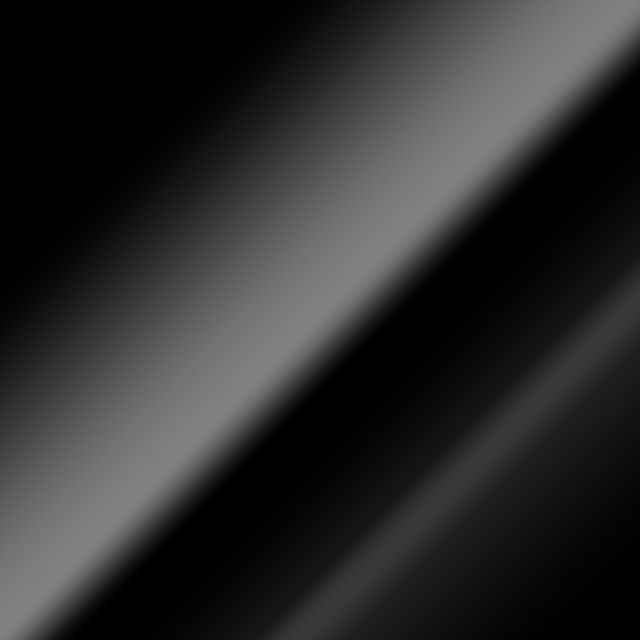
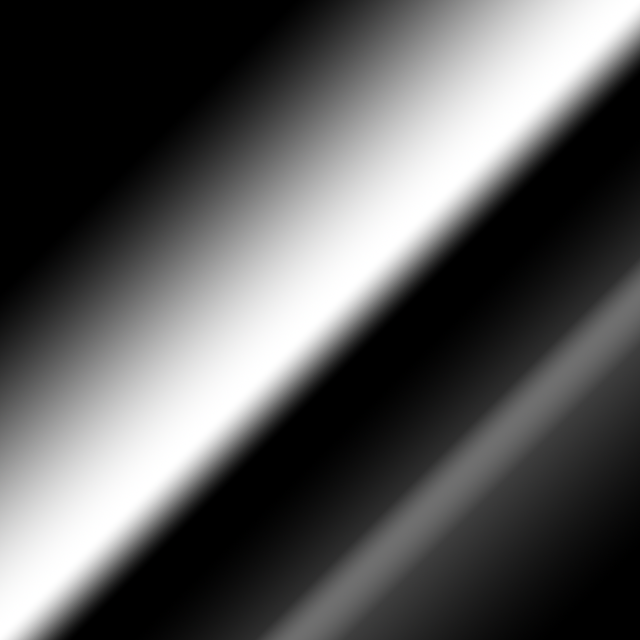
Added camera movement with presets for position with each possible number of cards showing.
Added colored spotlight to scene floor.

Added falloff to floor reflection.

diff --git a/SceneKitTest/Classes/AESceneView.m b/SceneKitTest/Classes/AESceneView.m
@@ -36,7 +36,13 @@
 	[self initTeamsFromCSVFileWithBaseFilenames:@[@"ffl_2009_teams", @"ffl_2009_teams_supplemental"]];
 
 	_playerIDPool = @[@"nfl.p.2914", @"nfl.p.3116", @"nfl.p.3664", @"nfl.p.4262", @"nfl.p.4659", @"nfl.p.5036", @"nfl.p.5228", @"nfl.p.5474", @"nfl.p.5652", @"nfl.p.5900", @"nfl.p.6353", @"nfl.p.6427", @"nfl.p.6492", @"nfl.p.6802", @"nfl.p.6994", @"nfl.p.7073", @"nfl.p.7200", @"nfl.p.7203", @"nfl.p.7241", @"nfl.p.7247", @"nfl.p.7406", @"nfl.p.7434", @"nfl.p.7809", @"nfl.p.7860", @"nfl.p.7868", @"nfl.p.7904", @"nfl.p.8255", @"nfl.p.8261", @"nfl.p.8263", @"nfl.p.8286", @"nfl.p.8298", @"nfl.p.8306", @"nfl.p.8327", @"nfl.p.8330", @"nfl.p.8346", @"nfl.p.8391", @"nfl.p.8416", @"nfl.p.8432", @"nfl.p.8815", @"nfl.p.8821", @"nfl.p.8850", @"nfl.p.8872", @"nfl.p.8902", @"nfl.p.8926", @"nfl.p.9030", @"nfl.p.9037", @"nfl.p.9039", @"nfl.p.9265", @"nfl.p.9271", @"nfl.p.9274", @"nfl.p.9293", @"nfl.p.9295", @"nfl.p.9314", @"nfl.p.9496", @"nfl.p.9497"];
-//	NSInteger randomPlayerIndex =  AERandInt(0, _playerIDPool.count - 1);
+
+	_cameraPositions = @{@"0" : [NSValue valueWithSCNVector3:SCNVector3Make(0.0, 1.2, 20.0)], // 0 cards
+						 @"2" : [NSValue valueWithSCNVector3:SCNVector3Make(0.0, 2.7, 12.0)], // 2 cards
+						 @"3" : [NSValue valueWithSCNVector3:SCNVector3Make(0.0, 2.25, 14.0)], // 3 cards
+						 @"4" : [NSValue valueWithSCNVector3:SCNVector3Make(0.0, 1.7, 16.0)], // 4 cards
+						 @"5" : [NSValue valueWithSCNVector3:SCNVector3Make(0.0, 1.2, 18.0)], // 5 cards
+						 };
 
 //	for (NSString *s in _playerIDPool) {
 //		NSString *headshotFilePath = [[[NSBundle mainBundle] URLForResource:[NSString stringWithFormat:@"PC Headshots/%@", s] withExtension:@"png"] path];
@@ -57,6 +63,8 @@
 //	scene.view.backgroundColor = [NSColor blackColor];
 
 	SCNNode *root = scene.rootNode;
+	self.jitteringEnabled = YES;
+	self.backgroundColor = [NSColor blackColor];
 //	self.allowsCameraControl = YES;
 //	self.showsStatistics = YES;
 
@@ -64,10 +72,11 @@
 	SCNCamera *camera = [SCNCamera camera];
 	camera.xFov = 45;   // Degrees, not radians
 	camera.yFov = 45;
-	SCNNode *cameraNode = [SCNNode node];
-	cameraNode.camera = camera;
-	cameraNode.position = SCNVector3Make(0, .5, 18);
-	[scene.rootNode addChildNode:cameraNode];
+	_cameraNode = [SCNNode node];
+	_cameraNode.camera = camera;
+//	_cameraNode.position = SCNVector3Make(0, 1.0, 18);
+	_cameraNode.position = [_cameraPositions[[@(0) stringValue]] SCNVector3Value];
+	[scene.rootNode addChildNode:_cameraNode];
 
 	// main light
 	SCNLight *light = [SCNLight light];
@@ -78,9 +87,28 @@
 //	[root addChildNode:lightNode];
     root.light = light;
 
+	SCNNode *spotNode = [SCNNode node];
+    spotNode.name = @"spot light";
+    spotNode.position = SCNVector3Make(0, 30, 2);
+    spotNode.rotation = SCNVector4Make(1, 0, 0, -M_PI_2);
+	spotNode.light = [SCNLight light];
+	spotNode.light.color = [NSColor colorWithCalibratedHue:.60 saturation:100.0 brightness:0.30 alpha:1.0];
+	spotNode.light.type = SCNLightTypeSpot;
+    spotNode.light.shadowRadius = 10;
+    [spotNode.light setAttribute:@30 forKey:SCNLightShadowNearClippingKey];
+    [spotNode.light setAttribute:@50 forKey:SCNLightShadowFarClippingKey];
+    [spotNode.light setAttribute:@8 forKey:SCNLightSpotInnerAngleKey];
+    [spotNode.light setAttribute:@40 forKey:SCNLightSpotOuterAngleKey];
+	[root addChildNode:spotNode];
+
 	// floor geometry
 	SCNFloor *floor = [SCNFloor floor];
-	floor.reflectivity = 0.20;
+	SCNMaterial *floorMaterial = [SCNMaterial material];
+	floorMaterial.ambient.contents = [NSColor darkGrayColor];
+	floor.reflectivity = 0.30;
+	floor.reflectionFalloffStart = 1.0;
+	floor.reflectionFalloffEnd = 5.5;
+	floor.firstMaterial = floorMaterial;
 	SCNNode *floorNode = [SCNNode nodeWithGeometry:floor];
 	[root addChildNode:floorNode];
 
@@ -105,12 +133,6 @@
 //	[AEUtility configureMaterial:infoMat];
 //	[root addChildNode:infoNode];
 
-//	SCNNode *playerCardNode = [SCNNode node];
-//	SCNSceneSource *playerCardSource = [SCNSceneSource sceneSourceWithURL:url options:nil];
-//	SCNGeometry *playerCardGeometry = [playerCardSource entryWithIdentifier:@"player_card_test" withClass:[SCNGeometry class]];
-//	playerCardNode.geometry = playerCardGeometry;
-//	[root addChildNode:playerCardNode];
-
 //	SCNText *text = [SCNText textWithString:@"QB RANK" extrusionDepth:0.0f];
 //	text.alignmentMode = kCAAlignmentCenter;
 //
@@ -121,28 +143,6 @@
 //	textNode.position = SCNVector3Make(0, 1, 0);
 //	textNode.transform = CATransform3DScale(textNode.transform, .01f, .01f, .01f);
 //	[root addChildNode:textNode];
-
-//	NSInteger randomPlayerCount = AERandInt(2, 5);
-//	NSArray *randomPlayers = [self randomUniquePlayersWithCount:randomPlayerCount];
-//	[self animateCardsInForPlayers:randomPlayers];
-
-//	NSUInteger playerCardCount = 5;
-//	for (int i = 0; i < playerCardCount; i++) {
-//		CGFloat cardSpacingX = 4.5;
-//		NSInteger randomPlayerIndex =  AERandInt(0, _playerIDPool.count - 1);
-//		AEPlayer *player = [self playerWithID:_playerIDPool[randomPlayerIndex]];
-//		NSLog(@"Showing player card for player with id %@, data = %@", _playerIDPool[randomPlayerIndex], player.data);
-//		AEPlayerCard *card = [[AEPlayerCard alloc] init];
-//		[card configureWithPlayer:player];
-//		[_displayedCards addObject:card];
-//		[root addChildNode:card];
-//		//	NSLog(@"card size = %fx%f", playerCard.cardSize.x, playerCard.cardSize.y);
-//		CGFloat totalWidth = (playerCardCount - 1) * cardSpacingX;
-////		NSLog(@"total width = %f", @(totalWidth));
-//		card.position = SCNVector3Make(-(totalWidth / 2.0) + cardSpacingX * i, (card.cardSize.y / 2.0) + .025, 0.0);
-////		card.rotation = SCNVector4Make(1.0, 1.0, 0.0, -card.position.x / 20.0);
-////		NSLog(@"x pos of card %@ = %f", @(i), card.position.x);
-//	}
 }
 
 /* ========================================================================== */
@@ -159,9 +159,23 @@
 		NSInteger randomPlayerCount = AERandInt(2, 5);
 		NSArray *randomPlayers = [self randomUniquePlayersWithCount:randomPlayerCount];
 		[self animateCardsInForPlayers:randomPlayers];
+		[self animateCameraForCardCount:randomPlayers.count];
 	} else {
 		[self animateCardsOut];
+		[self animateCameraForCardCount:0];
 	}
+}
+
+/* ========================================================================== */
+- (void)animateCameraForCardCount:(NSUInteger)cardCount {
+	NSInteger cardDelta = abs((int)cardCount - (int)_displayedCardCount);
+	NSLog(@"Card count = %@ | Displayed card count = %@ | Card delta = %@", @(cardCount), @(_displayedCardCount), @(cardDelta));
+
+	[SCNTransaction begin];
+	[SCNTransaction setAnimationDuration:0.5 + (.25 * cardDelta)];
+	[SCNTransaction setAnimationTimingFunction:[CAMediaTimingFunction functionWithName:kCAMediaTimingFunctionEaseInEaseOut]];
+	_cameraNode.position = [_cameraPositions[[@(cardCount) stringValue]] SCNVector3Value];
+	[SCNTransaction commit];
 }
 
 /* ========================================================================== */
@@ -176,113 +190,93 @@
 	for (int i = 0; i < _displayedCardCount; i++) {
 		AEPlayerCard *card = [[AEPlayerCard alloc] init];
 		[card configureWithPlayer:players[i]];
-		card.position = SCNVector3Make(-(totalWidthStart / 2.0) + cardSpacingStartX * i, 2.0, 18.0);
+		card.pivot = CATransform3DMakeTranslation(0.0, -2.8, 0.0);
+		card.position = SCNVector3Make(-(-(totalWidthStart / 2.0) + cardSpacingStartX * i), .5, 22.0);
+//		card.position = SCNVector3Make(-(totalWidthEnd / 2.0) + cardSpacingEndX * i, .025, 0.0);
+//		card.position = SCNVector3Make(-(totalWidthStart / 2.0) + cardSpacingStartX * i, (card.cardSize.y * 1.5) + .025, 18.0);
+//		card.position = SCNVector3Make(-(totalWidthStart / 2.0) + cardSpacingStartX * i, (card.cardSize.y / 2.0) + .025, 18.0);
 //		card.position = SCNVector3Make(-(totalWidthEnd / 2.0) + cardSpacingEndX * i, (card.cardSize.y / 2.0) + .025, 0.0);
-		card.rotation = SCNVector4Make(1.0, 0.0, 0.0, AEDegToRad(-75.0));
+		card.rotation = SCNVector4Make(1.0, 0.75, 0.0, AEDegToRad(-90.0));
 		[_displayedCards addObject:card];
 		[_displayedCardsNode addChildNode:card];
 	}
 
-	// Now animate to their ending positions.
-//	[SCNTransaction begin];
-//	[SCNTransaction setAnimationDuration:3.0];
-//	[SCNTransaction setAnimationTimingFunction:[CAMediaTimingFunction functionWithName:kCAMediaTimingFunctionEaseOut]];
-//	[SCNTransaction setCompletionBlock:^{
-//		NSLog(@"Cards finished in animation.");
-//	}];
+	NSArray *orderOfCards = nil;
+	if (_displayedCardCount == 2) {
+		orderOfCards = @[@0, @1];
+	} else if (_displayedCardCount == 3) {
+		orderOfCards = @[@0, @2, @1];
+	} else if (_displayedCardCount == 4) {
+		orderOfCards = @[@0, @3, @1, @2];
+	} else if (_displayedCardCount == 5) {
+		orderOfCards = @[@0, @4, @1, @3, @2];
+	}
 
-//	NSMutableArray *cardAnimations = [NSMutableArray arrayWithCapacity:_displayedCardCount];
 	for (int i = 0; i < _displayedCardCount; i++) {
-
-//		[SCNTransaction commit];
-
-//		AEPlayerCard *card = _displayedCards[i];
-//		CAKeyframeAnimation *animation = [CAKeyframeAnimation animationWithKeyPath:@"position"];
-//		animation.values = @[[NSValue valueWithSCNVector3:card.position],
-//							[NSValue valueWithSCNVector3:SCNVector3Make(-(totalWidthEnd / 2.0) + cardSpacingEndX * i, (card.cardSize.y / 2.0) + .025, 0.0)]];
-////		animation.values = @[
-////							[NSValue valueWithSCNVector3:SCNVector3Make(card.position.x, 0.0, 0.0)],
-////							[NSValue valueWithSCNVector3:SCNVector3Make(card.position.x, 1.5, 0.0)],
-////							[NSValue valueWithSCNVector3:SCNVector3Make(card.position.x, 0.0, 0.0)]
-////							];
-//
-////		animation.keyTimes = @[@0.0, @1.0];
-//		animation.duration = 3.0;
-////		animation.beginTime = 0.65 * i;
-////		[cardAnimations addObject:animation];
-////		NSLog(@"Animating card %@", @(i));
-
 		double delayInSeconds = 0.25 * i;
 		dispatch_time_t popTime = dispatch_time(DISPATCH_TIME_NOW, (int64_t)(delayInSeconds * NSEC_PER_SEC));
 		dispatch_after(popTime, dispatch_get_main_queue(), ^(void){
 			[SCNTransaction begin];
-			[SCNTransaction setAnimationDuration:1.0];
+			[SCNTransaction setAnimationDuration:0.65];
 			[SCNTransaction setAnimationTimingFunction:[CAMediaTimingFunction functionWithName:kCAMediaTimingFunctionEaseOut]];
 
-			AEPlayerCard *card = _displayedCards[i];
-			card.position = SCNVector3Make(-(totalWidthEnd / 2.0) + cardSpacingEndX * i, (card.cardSize.y / 2.0) + .025, 0.0);
+			AEPlayerCard *card = _displayedCards[[orderOfCards[i] intValue]];
+			card.position = SCNVector3Make(-(totalWidthEnd / 2.0) + cardSpacingEndX * i, .025, 0.0);
+//			card.position = SCNVector3Make(-(totalWidthEnd / 2.0) + cardSpacingEndX * i, (card.cardSize.y / 2.0) + .025, 0.0);
 			card.rotation = SCNVector4Make(0.0, 0.0, 0.0, 0.0);
 			[SCNTransaction commit];
 //			[card addAnimation:animation forKey:nil];
 		});
 	}
-
-//	CAAnimationGroup *group = [CAAnimationGroup animation];
-////	group.beginTime = addTime + 1;
-//	group.animations = [NSArray arrayWithObject:cardAnimations];
-//	group.duration = 3.0; // _displayedCardCount * 0.65;
-////	anim.beginTime = 0.5;
-//	[group run
-//
-//	for (int i = 0; i < _displayedCardCount; i++) {
-//		AEPlayerCard *card = _displayedCards[i];
-//		NSLog(@"Animating card %@", @(i));
-//		[card addAnimation:cardAnimations[i] forKey:@"transform"];
-//	}
-
-//	[SCNTransaction commit];
 }
 
 /* ========================================================================== */
 - (void)animateCardsOut {
 	CGFloat cardSpacingEndX = 6.0;
-	CGFloat totalWidthEnd = (_displayedCardCount - 1) * cardSpacingEndX;
+//	CGFloat totalWidthEnd = (_displayedCardCount - 1) * cardSpacingEndX;
+	NSArray *orderOfCards = nil;
+
+	if (_displayedCardCount == 2) {
+		orderOfCards = @[@0, @1];
+	} else if (_displayedCardCount == 3) {
+		orderOfCards = @[@0, @2, @1];
+	} else if (_displayedCardCount == 4) {
+		orderOfCards = @[@0, @3, @1, @2];
+	} else if (_displayedCardCount == 5) {
+		orderOfCards = @[@0, @4, @1, @3, @2];
+	}
+
 	for (int i = 0; i < _displayedCardCount; i++) {
 		AEPlayerCard *card = _displayedCards[i];
-//		[card configureWithPlayer:players[i]];
-		//		[_displayedCards addObject:card];
-		//		[root addChildNode:card];
-		//	NSLog(@"card size = %fx%f", playerCard.cardSize.x, playerCard.cardSize.y);
-		//		NSLog(@"total width = %f", @(totalWidth));
-//		card.position = SCNVector3Make(-(totalWidth / 2.0) + cardSpacingX * i, (card.cardSize.y / 2.0) + .025, 0.0);
-		//		card.rotation = SCNVector4Make(1.0, 1.0, 0.0, -card.position.x / 20.0);
-		//		NSLog(@"x pos of card %@ = %f", @(i), card.position.x);
 
 		double delayInSeconds = 0.125 * i;
 		dispatch_time_t popTime = dispatch_time(DISPATCH_TIME_NOW, (int64_t)(delayInSeconds * NSEC_PER_SEC));
 		dispatch_after(popTime, dispatch_get_main_queue(), ^(void){
 			[SCNTransaction begin];
-			[SCNTransaction setAnimationDuration:0.5];
+			[SCNTransaction setAnimationDuration:0.65];
 			[SCNTransaction setAnimationTimingFunction:[CAMediaTimingFunction functionWithName:kCAMediaTimingFunctionEaseIn]];
 			[SCNTransaction setCompletionBlock:^{
 				static NSUInteger cardsCompleted = 0;
 				cardsCompleted++;
 				NSLog(@"completed = %@/%@", @(cardsCompleted), @(_displayedCardCount));
 				if (cardsCompleted >= _displayedCardCount) {
-					NSLog(@"animation complete.");
-					[_displayedCards removeAllObjects];
+//					NSLog(@"animation complete.");
+//					[_displayedCards removeAllObjects];
 					_displayedCardCount = 0;
 					cardsCompleted = 0;
 				}
 				[card removeFromParentNode];
+				[_displayedCards removeObject:card];
 			}];
 
-			AEPlayerCard *card = _displayedCards[i];
-			card.position = SCNVector3Make(-(totalWidthEnd / 2.0) + cardSpacingEndX * i, 2.0, 18.0);
-			card.rotation = SCNVector4Make(1.0, 0.0, 0.0, AEDegToRad(-75.0));
+			AEPlayerCard *card = _displayedCards[[orderOfCards[i] intValue]];
+//			AEPlayerCard *card = _displayedCards[i];
+			card.position = SCNVector3Make(card.position.x + 20.0, 0.5, 5.0);
+//			card.position = SCNVector3Make(-(totalWidthEnd / 2.0) + cardSpacingEndX * i, 2.0, 22.0);
+			card.rotation = SCNVector4Make(1.0, 1.0, 0.0, AEDegToRad(-90.0));
 //			card.rotation = SCNVector4Make(0.0, 0.0, 0.0, 0.0);
 			[SCNTransaction commit];
-			//			[card addAnimation:animation forKey:nil];
+//			[card addAnimation:animation forKey:nil];
 		});
 	}
 }

diff --git a/SceneKitTest/Classes/AESceneView.h b/SceneKitTest/Classes/AESceneView.h
@@ -15,6 +15,7 @@
 @class AETeam;
 
 @interface AESceneView : SCNView <CHCSVParserDelegate> {
+	SCNNode *_cameraNode;
 	CHCSVParser *_playerParser;
 	CHCSVParser *_teamParser;
 	NSUInteger _currentParserLine;
@@ -26,6 +27,7 @@
 	NSMutableArray *_displayedCards;
 	SCNNode *_displayedCardsNode;
 	NSUInteger _displayedCardCount;
+	NSDictionary *_cameraPositions;
 //	AEPlayerCard *_playerCard;
 }
 

diff --git a/SceneKitTest/Classes/AEPlayerCard.m b/SceneKitTest/Classes/AEPlayerCard.m
@@ -34,6 +34,7 @@
 		headshotBackgroundMat.diffuse.contents = [NSImage imageNamed:@"pc_hs_bg"];
 		headshotBackgroundMat.reflective.contents = reflectionImg;
 		headshotBackgroundMat.shininess = 0.3;
+//		headshotBackgroundMat.lightingModelName = SCNLightingModelBlinn;
 		_headshotBackgroundNode.geometry.firstMaterial = headshotBackgroundMat;
 
 		// Headshot geometry
